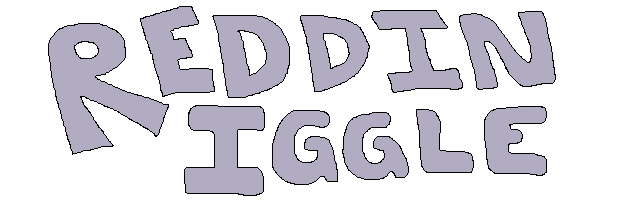
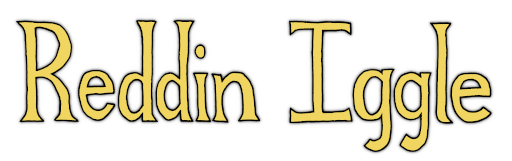
much nicer hello graphics

diff --git a/src/game/iggle_hello.c b/src/game/iggle_hello.c
@@ -4,6 +4,9 @@
 #define TEXT_COLOR_ACTIVE   0xffff00ff
 #define TEXT_COLOR_STATIC   0xa0c0ffff
 
+#define ALPHA_WAIT_TIME 0.750
+#define ALPHA_RAMP_TIME 1.000
+
 #define LABEL_LIMIT 8
 
 /* Label ID is also the index in strings:1
@@ -28,6 +31,10 @@ struct hello {
   int focusp; // within (labelv)
   int texid_banner;
   int bannerw,bannerh;
+  int texid_seal;
+  int sealw,sealh;
+  double alpha_wait_clock;
+  double alpha_ramp_clock;
 } hello={0};
 
 /* End.
@@ -38,6 +45,7 @@ void hello_end() {
   int i=hello.labelc;
   for (;i-->0;label++) egg_texture_del(label->texid);
   egg_texture_del(hello.texid_banner);
+  egg_texture_del(hello.texid_seal);
   memset(&hello,0,sizeof(hello));
 }
 
@@ -124,8 +132,13 @@ static struct label *hello_add_time_label(int id,double sf) {
 int hello_begin() {
   memset(&hello,0,sizeof(struct hello));
   
+  hello.alpha_wait_clock=ALPHA_WAIT_TIME;
+  hello.alpha_ramp_clock=ALPHA_RAMP_TIME;
+  
   egg_texture_load_image(hello.texid_banner=egg_texture_new(),RID_image_banner);
   egg_texture_get_status(&hello.bannerw,&hello.bannerh,hello.texid_banner);
+  egg_texture_load_image(hello.texid_seal=egg_texture_new(),RID_image_seal);
+  egg_texture_get_status(&hello.sealw,&hello.sealh,hello.texid_seal);
   
   struct label *label;
   if (!(label=hello_add_static_label(LABEL_ID_PLAY))) return -1;
@@ -188,6 +201,7 @@ int hello_begin() {
  */
  
 static void hello_move(int d) {
+  hello.alpha_wait_clock=hello.alpha_ramp_clock=0.0;
   int panic=hello.labelc;
   while (panic-->0) {
     hello.focusp+=d;
@@ -204,6 +218,7 @@ static void hello_move(int d) {
  */
  
 static void hello_adjust(int d) {
+  hello.alpha_wait_clock=hello.alpha_ramp_clock=0.0;
   if ((hello.focusp<0)||(hello.focusp>=hello.labelc)) return;
   struct label *label=hello.labelv+hello.focusp;
   switch (label->id) {
@@ -233,6 +248,10 @@ static void hello_adjust(int d) {
  */
  
 static void hello_activate() {
+  if (hello.alpha_ramp_clock>0.0) {
+    hello.alpha_wait_clock=hello.alpha_ramp_clock=0.0;
+    return;
+  }
   if ((hello.focusp<0)||(hello.focusp>=hello.labelc)) return;
   struct label *label=hello.labelv+hello.focusp;
   switch (label->id) {
@@ -254,13 +273,32 @@ void hello_update(double elapsed,int input,int pvinput) {
   if ((input&EGG_BTN_UP)&&!(pvinput&EGG_BTN_UP)) hello_move(-1);
   if ((input&EGG_BTN_DOWN)&&!(pvinput&EGG_BTN_DOWN)) hello_move(1);
   if ((input&EGG_BTN_SOUTH)&&!(pvinput&EGG_BTN_SOUTH)) hello_activate();
+  
+  if (hello.alpha_wait_clock>0.0) {
+    hello.alpha_wait_clock-=elapsed;
+  } else if (hello.alpha_ramp_clock>0.0) {
+    hello.alpha_ramp_clock-=elapsed;
+  }
 }
 
 /* Render.
  */
  
 void hello_render() {
+
   graf_draw_rect(&g.graf,0,0,FBW,FBH,0x204060ff);
+  graf_set_tint(&g.graf,0x305070ff);
+  graf_draw_decal(&g.graf,hello.texid_seal,(FBW>>1)-(hello.sealw>>1),(FBH>>1)-(hello.sealh>>1),0,0,hello.sealw,hello.sealh,0);
+  graf_set_tint(&g.graf,0);
+  
+  int alpha=0xff;
+  if (hello.alpha_wait_clock>0.0) return;
+  if (hello.alpha_ramp_clock>0.0) {
+    alpha=(int)((1.0-hello.alpha_ramp_clock/ALPHA_RAMP_TIME)*255.0);
+    if (alpha<1) return;
+    if (alpha>0xff) alpha=0xff;
+    graf_set_alpha(&g.graf,alpha);
+  }
   graf_draw_decal(&g.graf,hello.texid_banner,(FBW>>1)-(hello.bannerw>>1),0,0,0,hello.bannerw,hello.bannerh,0);
   struct label *label=hello.labelv;
   int i=hello.labelc,hlt=hello.focusp;
@@ -269,4 +307,5 @@ void hello_render() {
     graf_draw_decal(&g.graf,label->texid,label->x,label->y,0,0,label->w,label->h,0);
     if (hlt==-1) graf_set_tint(&g.graf,0);
   }
+  if (alpha!=0xff) graf_set_alpha(&g.graf,0xff);
 }

diff --git a/README.md b/README.md
@@ -39,9 +39,14 @@ Help the eagle put all the things in their place by flapping his wings with the 
 - - [x] Press Start to reset level.
 - - [x] Music.
 - - [x] Sound effects.
+- - [x] Title banner has got to go. Try something hand-drawn.
 - - [ ] Itch page.
-- - [ ] Have an arguably complete game by EOD. I don't want to do a lot during the week.
+- - [x] Have an arguably complete game by EOD. I don't want to do a lot during the week.
 - - [ ] Submit to jam? We can keep revising once submitted, I believe.
+- - [x] Swap maps 5 and 6; 5 is more difficult.
+- - [ ] Ending is kind of abrupt.
+- - - [x] Something more "You Win!" than "Game Over", make it positive.
+- - - [ ] Can we style the last map to make it feel more like a finale?
 - Mon 2025-03-03
 - Tue 2025-03-04
 - Wed 2025-03-05
